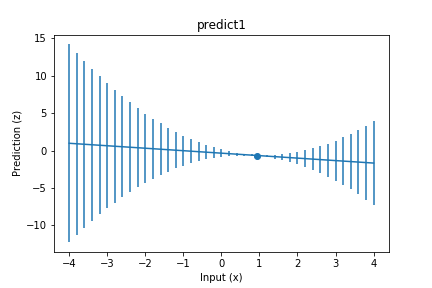
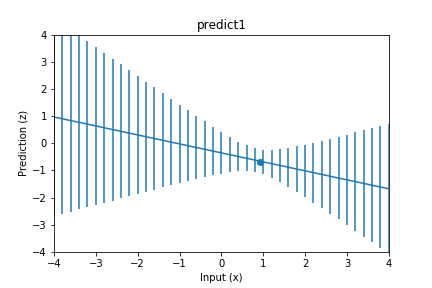
Previously, the code did not consider the sqrt of the variance as the uncertainty. additionally, the variance of the noise was not considered, which is incorrect

diff --git a/ECE368_LAB_2/reg/regression.py b/ECE368_LAB_2/reg/regression.py
@@ -122,9 +122,13 @@ def predictionDistribution(x,beta,sigma2,mu,Cov,x_train,z_train):
     x_modified = np.array(x_modified)
     x_t = np.transpose(x_modified)
     
-
+    
     z_mu = np.matmul(np.transpose(mu), x_t)
-
+    
+    """
+    coefficients of the regression (w) has covariance of Sigma_{w|y}, 
+    then the variance of y=wx will be x^T * Sigma_{w|y} * x
+    """
     z_var = np.matmul(x_modified, np.matmul(Cov, x_t))
     
     # uncertainty is along the diagonals
@@ -134,7 +138,24 @@ def predictionDistribution(x,beta,sigma2,mu,Cov,x_train,z_train):
         uncertainty[i] = z_var[i][i]
     """
     uncertainty = z_var.diagonal()
+    uncertainty.setflags(write=1) # make this writetable
+    
+    """
+    recall z = a1*x + a0 + w
+    uncertainty (the var) so far is just the variance of a1*x + a0,
+    must add variance of the noise & take sqrt
+    must take square root
+    """
+    for i in range(len(uncertainty)):
+        uncertainty[i] += sigma2
+    uncertainty = np.sqrt(uncertainty) # std deviation
+    
+    """
+    plotting
+    """
     plt.figure()
+    plt.ylim(-4,4)    
+    plt.xlim(-4,4)
     title = "predict" + str(len(x_train))
     plt.title(title)
     plt.xlabel("Input (x)")
